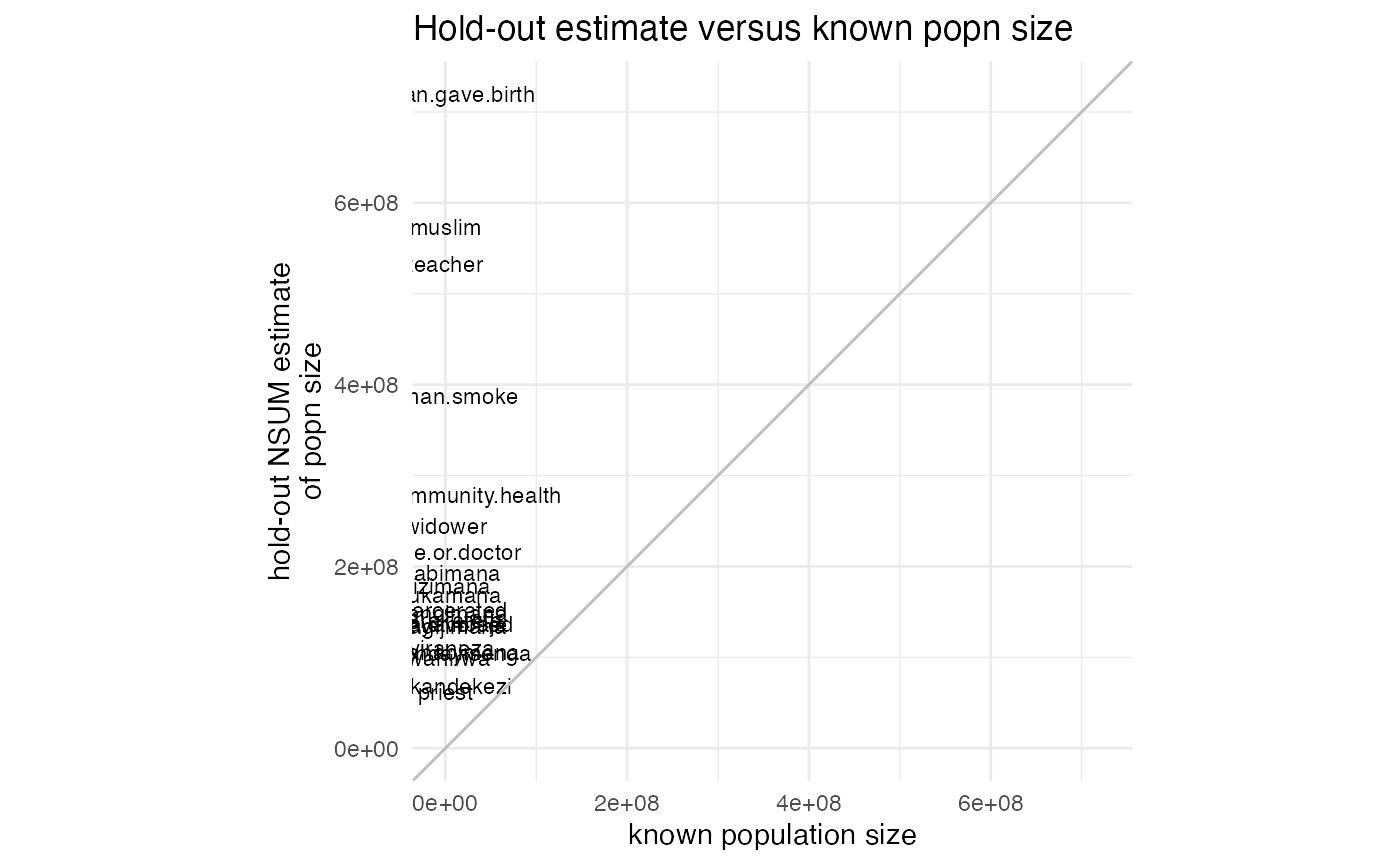
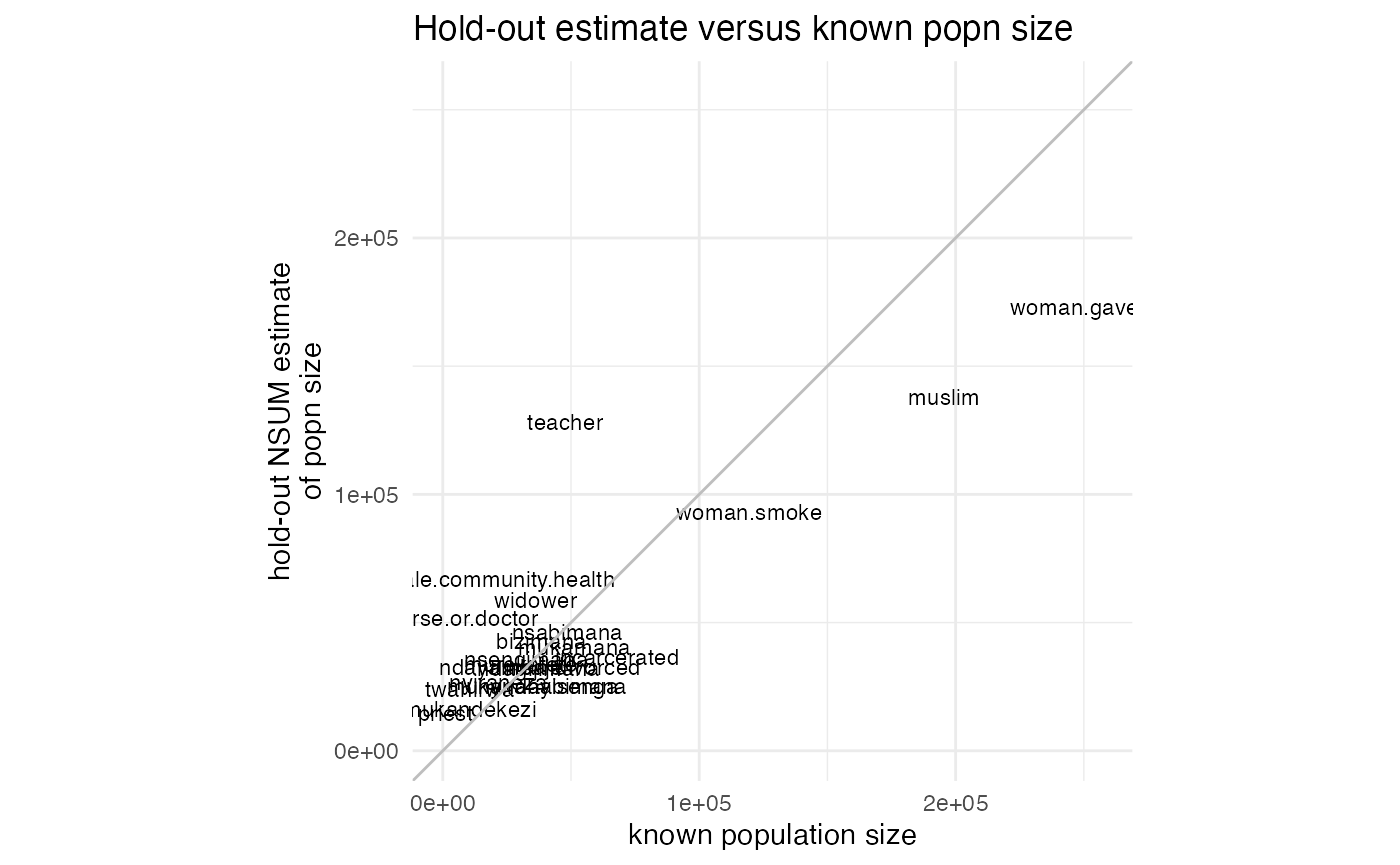
updated vignette

diff --git a/docs/articles/network_scaleup.html b/docs/articles/network_scaleup.html
@@ -501,12 +501,12 @@ populations. Future versions of the package may include tools to help address th
 <span class="co">## summarize the results</span>
 <span class="fu"><a href="https://rdrr.io/r/base/summary.html">summary</a></span><span class="op">(</span><span class="va">all.idu.estimates</span><span class="op">$</span><span class="va">estimate</span><span class="op">)</span></pre></div>
 <pre><code>##    Min. 1st Qu.  Median    Mean 3rd Qu.    Max. 
-##   24204   32736   34985   34937   37205   45006</code></pre>
+##   25346   32529   35057   34909   36577   44746</code></pre>
 <p>To produce 95% intervals using the percentile method you can do something like this</p>
 <div class="sourceCode" id="cb32"><pre class="downlit">
 <span class="fu"><a href="https://rdrr.io/r/stats/quantile.html">quantile</a></span><span class="op">(</span><span class="va">all.idu.estimates</span><span class="op">$</span><span class="va">estimate</span>, probs<span class="op">=</span><span class="fu"><a href="https://rdrr.io/r/base/c.html">c</a></span><span class="op">(</span><span class="fl">0.025</span>, <span class="fl">0.975</span><span class="op">)</span><span class="op">)</span></pre></div>
 <pre><code>##     2.5%    97.5% 
-## 27588.62 41182.12</code></pre>
+## 28182.84 42362.41</code></pre>
 </div>
 <div id="internal-consistency-checks" class="section level2">
 <h2 class="hasAnchor">
@@ -518,151 +518,107 @@ populations. Future versions of the package may include tools to help address th
                                       missing<span class="op">=</span><span class="st">"complete.obs"</span>,
                                       killworth.se<span class="op">=</span><span class="cn">TRUE</span>,
                                       total.popn.size<span class="op">=</span><span class="va">tot.pop.size</span>,
+                                      alter.popn.size<span class="op">=</span><span class="va">tot.pop.size</span>,
                                       kp.method<span class="op">=</span><span class="cn">TRUE</span>,
                                       return.plot<span class="op">=</span><span class="cn">TRUE</span><span class="op">)</span></pre></div>
-<pre><code>## NOTE: Ignoring any rows with missingness on any of the report variables.</code></pre>
-<pre><code>## Warning in sqrt((p.hat * (1 - p.hat))/toret$sum.d.hat): NaNs produced</code></pre>
-<pre><code>## Warning in sqrt((p.hat.raw * (1 - p.hat.raw))/sum(raw.d.hat.vals[touse.idx])):
-## NaNs produced</code></pre>
-<pre><code>## NOTE: Ignoring any rows with missingness on any of the report variables.</code></pre>
-<pre><code>## Warning in sqrt((p.hat * (1 - p.hat))/toret$sum.d.hat): NaNs produced
-
-## Warning in sqrt((p.hat * (1 - p.hat))/toret$sum.d.hat): NaNs produced</code></pre>
-<pre><code>## NOTE: Ignoring any rows with missingness on any of the report variables.</code></pre>
-<pre><code>## Warning in sqrt((p.hat * (1 - p.hat))/toret$sum.d.hat): NaNs produced
-
-## Warning in sqrt((p.hat * (1 - p.hat))/toret$sum.d.hat): NaNs produced</code></pre>
-<pre><code>## NOTE: Ignoring any rows with missingness on any of the report variables.</code></pre>
-<pre><code>## Warning in sqrt((p.hat * (1 - p.hat))/toret$sum.d.hat): NaNs produced
-
-## Warning in sqrt((p.hat * (1 - p.hat))/toret$sum.d.hat): NaNs produced</code></pre>
-<pre><code>## NOTE: Ignoring any rows with missingness on any of the report variables.</code></pre>
-<pre><code>## Warning in sqrt((p.hat * (1 - p.hat))/toret$sum.d.hat): NaNs produced
-
-## Warning in sqrt((p.hat * (1 - p.hat))/toret$sum.d.hat): NaNs produced</code></pre>
-<pre><code>## NOTE: Ignoring any rows with missingness on any of the report variables.</code></pre>
-<pre><code>## Warning in sqrt((p.hat * (1 - p.hat))/toret$sum.d.hat): NaNs produced
-
-## Warning in sqrt((p.hat * (1 - p.hat))/toret$sum.d.hat): NaNs produced</code></pre>
-<pre><code>## NOTE: Ignoring any rows with missingness on any of the report variables.</code></pre>
-<pre><code>## Warning in sqrt((p.hat * (1 - p.hat))/toret$sum.d.hat): NaNs produced
-
-## Warning in sqrt((p.hat * (1 - p.hat))/toret$sum.d.hat): NaNs produced</code></pre>
-<pre><code>## NOTE: Ignoring any rows with missingness on any of the report variables.</code></pre>
-<pre><code>## Warning in sqrt((p.hat * (1 - p.hat))/toret$sum.d.hat): NaNs produced
-
-## Warning in sqrt((p.hat * (1 - p.hat))/toret$sum.d.hat): NaNs produced</code></pre>
-<pre><code>## NOTE: Ignoring any rows with missingness on any of the report variables.</code></pre>
-<pre><code>## Warning in sqrt((p.hat * (1 - p.hat))/toret$sum.d.hat): NaNs produced
-
-## Warning in sqrt((p.hat * (1 - p.hat))/toret$sum.d.hat): NaNs produced</code></pre>
-<pre><code>## NOTE: Ignoring any rows with missingness on any of the report variables.</code></pre>
-<pre><code>## Warning in sqrt((p.hat * (1 - p.hat))/toret$sum.d.hat): NaNs produced
-
-## Warning in sqrt((p.hat * (1 - p.hat))/toret$sum.d.hat): NaNs produced</code></pre>
-<pre><code>## NOTE: Ignoring any rows with missingness on any of the report variables.</code></pre>
-<pre><code>## Warning in sqrt((p.hat * (1 - p.hat))/toret$sum.d.hat): NaNs produced
-
-## Warning in sqrt((p.hat * (1 - p.hat))/toret$sum.d.hat): NaNs produced</code></pre>
-<pre><code>## NOTE: Ignoring any rows with missingness on any of the report variables.</code></pre>
-<pre><code>## Warning in sqrt((p.hat * (1 - p.hat))/toret$sum.d.hat): NaNs produced
-
-## Warning in sqrt((p.hat * (1 - p.hat))/toret$sum.d.hat): NaNs produced</code></pre>
-<pre><code>## NOTE: Ignoring any rows with missingness on any of the report variables.</code></pre>
-<pre><code>## Warning in sqrt((p.hat * (1 - p.hat))/toret$sum.d.hat): NaNs produced
-
-## Warning in sqrt((p.hat * (1 - p.hat))/toret$sum.d.hat): NaNs produced</code></pre>
-<pre><code>## NOTE: Ignoring any rows with missingness on any of the report variables.</code></pre>
-<pre><code>## Warning in sqrt((p.hat * (1 - p.hat))/toret$sum.d.hat): NaNs produced
-
-## Warning in sqrt((p.hat * (1 - p.hat))/toret$sum.d.hat): NaNs produced</code></pre>
-<pre><code>## NOTE: Ignoring any rows with missingness on any of the report variables.</code></pre>
-<pre><code>## Warning in sqrt((p.hat * (1 - p.hat))/toret$sum.d.hat): NaNs produced
-
-## Warning in sqrt((p.hat * (1 - p.hat))/toret$sum.d.hat): NaNs produced</code></pre>
-<pre><code>## NOTE: Ignoring any rows with missingness on any of the report variables.</code></pre>
-<pre><code>## Warning in sqrt((p.hat * (1 - p.hat))/toret$sum.d.hat): NaNs produced
-
-## Warning in sqrt((p.hat * (1 - p.hat))/toret$sum.d.hat): NaNs produced</code></pre>
-<pre><code>## NOTE: Ignoring any rows with missingness on any of the report variables.</code></pre>
-<pre><code>## Warning in sqrt((p.hat * (1 - p.hat))/toret$sum.d.hat): NaNs produced
-
-## Warning in sqrt((p.hat * (1 - p.hat))/toret$sum.d.hat): NaNs produced</code></pre>
-<pre><code>## NOTE: Ignoring any rows with missingness on any of the report variables.</code></pre>
-<pre><code>## Warning in sqrt((p.hat * (1 - p.hat))/toret$sum.d.hat): NaNs produced
-
-## Warning in sqrt((p.hat * (1 - p.hat))/toret$sum.d.hat): NaNs produced</code></pre>
-<pre><code>## NOTE: Ignoring any rows with missingness on any of the report variables.</code></pre>
-<pre><code>## Warning in sqrt((p.hat * (1 - p.hat))/toret$sum.d.hat): NaNs produced
-
-## Warning in sqrt((p.hat * (1 - p.hat))/toret$sum.d.hat): NaNs produced</code></pre>
-<pre><code>## NOTE: Ignoring any rows with missingness on any of the report variables.</code></pre>
-<pre><code>## Warning in sqrt((p.hat * (1 - p.hat))/toret$sum.d.hat): NaNs produced
-
-## Warning in sqrt((p.hat * (1 - p.hat))/toret$sum.d.hat): NaNs produced</code></pre>
-<pre><code>## NOTE: Ignoring any rows with missingness on any of the report variables.</code></pre>
-<pre><code>## Warning in sqrt((p.hat * (1 - p.hat))/toret$sum.d.hat): NaNs produced
-
-## Warning in sqrt((p.hat * (1 - p.hat))/toret$sum.d.hat): NaNs produced</code></pre>
-<pre><code>## NOTE: Ignoring any rows with missingness on any of the report variables.</code></pre>
-<pre><code>## Warning in sqrt((p.hat * (1 - p.hat))/toret$sum.d.hat): NaNs produced
-
-## Warning in sqrt((p.hat * (1 - p.hat))/toret$sum.d.hat): NaNs produced</code></pre>
+<pre><code>## NOTE: Ignoring any rows with missingness on any of the report variables.
+## 
+## NOTE: Ignoring any rows with missingness on any of the report variables.
+## 
+## NOTE: Ignoring any rows with missingness on any of the report variables.
+## 
+## NOTE: Ignoring any rows with missingness on any of the report variables.
+## 
+## NOTE: Ignoring any rows with missingness on any of the report variables.
+## 
+## NOTE: Ignoring any rows with missingness on any of the report variables.
+## 
+## NOTE: Ignoring any rows with missingness on any of the report variables.
+## 
+## NOTE: Ignoring any rows with missingness on any of the report variables.
+## 
+## NOTE: Ignoring any rows with missingness on any of the report variables.
+## 
+## NOTE: Ignoring any rows with missingness on any of the report variables.
+## 
+## NOTE: Ignoring any rows with missingness on any of the report variables.
+## 
+## NOTE: Ignoring any rows with missingness on any of the report variables.
+## 
+## NOTE: Ignoring any rows with missingness on any of the report variables.
+## 
+## NOTE: Ignoring any rows with missingness on any of the report variables.
+## 
+## NOTE: Ignoring any rows with missingness on any of the report variables.
+## 
+## NOTE: Ignoring any rows with missingness on any of the report variables.
+## 
+## NOTE: Ignoring any rows with missingness on any of the report variables.
+## 
+## NOTE: Ignoring any rows with missingness on any of the report variables.
+## 
+## NOTE: Ignoring any rows with missingness on any of the report variables.
+## 
+## NOTE: Ignoring any rows with missingness on any of the report variables.
+## 
+## NOTE: Ignoring any rows with missingness on any of the report variables.
+## 
+## NOTE: Ignoring any rows with missingness on any of the report variables.</code></pre>
 <p>Now <code>ic.result</code> is a list that has a summary of the results in the entry <code>results</code></p>
-<div class="sourceCode" id="cb80"><pre class="downlit">
+<div class="sourceCode" id="cb36"><pre class="downlit">
 <span class="va">ic.result</span><span class="op">$</span><span class="va">results</span></pre></div>
 <pre><code>##                     name nsum.holdout.est known.size d.hat.sum killworth.se
-## 1                widower        244007444      36147  57.49825          NaN
-## 2        nurse.or.doctor        215600220       7807  56.49345          NaN
-## 3  male.community.health        278286292      22000  56.45265          NaN
-## 4                teacher        533095472      47745  54.86822          NaN
-## 5            woman.smoke        387010426     119438  59.92087          NaN
-## 6                 priest         61640323       1004  57.91663          NaN
-## 7       woman.gave.birth        719886921     256164  62.99600          NaN
-## 8                 muslim        573292400     195449  61.57659          NaN
-## 9           incarcerated        152201996      68000  60.18318          NaN
-## 10          man.divorced        136155139      50698  59.49096          NaN
-## 11            nsengimana        148368880      32528  58.43543          NaN
-## 12            murekatete        141037969      30531  58.42398          NaN
-## 13              twahirwa         99426394      10420  57.93230          NaN
-## 14           mukandekezi         68092036      10520  58.30344          NaN
-## 15             nsabimana        192850241      48560  58.69840          NaN
-## 16              mukamana        168600281      51449  59.13395          NaN
-## 17            ndayambaje        136497840      22724  58.09616          NaN
-## 18             nyiraneza        110713185      21705  58.34897          NaN
-## 19              bizimana        178508708      38497  58.37250          NaN
-## 20         nyirahabimana        105618615      42727  59.45922          NaN
-## 21           ndagijimana        134080575      37375  58.84521          NaN
-## 22        mukandayisenga        104942854      35055  59.07977          NaN
-##    killworth.se.wgtdenom       err    abserr        sqerr    relerr
-## 1                    NaN 243971297 243971297 5.952199e+16  6749.420
-## 2                    NaN 215592413 215592413 4.648009e+16 27615.270
-## 3                    NaN 278264292 278264292 7.743102e+16 12648.377
-## 4                    NaN 533047727 533047727 2.841399e+17 11164.472
-## 5                    NaN 386890988 386890988 1.496846e+17  3239.262
-## 6                    NaN  61639319  61639319 3.799406e+15 61393.744
-## 7                    NaN 719630757 719630757 5.178684e+17  2809.258
-## 8                    NaN 573096951 573096951 3.284401e+17  2932.207
-## 9                    NaN 152133996 152133996 2.314475e+16  2237.265
-## 10                   NaN 136104441 136104441 1.852442e+16  2684.612
-## 11                   NaN 148336352 148336352 2.200367e+16  4560.267
-## 12                   NaN 141007438 141007438 1.988310e+16  4618.500
-## 13                   NaN  99415974  99415974 9.883536e+15  9540.880
-## 14                   NaN  68081516  68081516 4.635093e+15  6471.627
-## 15                   NaN 192801681 192801681 3.717249e+16  3970.381
-## 16                   NaN 168548832 168548832 2.840871e+16  3276.037
-## 17                   NaN 136475116 136475116 1.862546e+16  6005.770
-## 18                   NaN 110691480 110691480 1.225260e+16  5099.815
-## 19                   NaN 178470211 178470211 3.185162e+16  4635.951
-## 20                   NaN 105575888 105575888 1.114627e+16  2470.941
-## 21                   NaN 134043200 134043200 1.796758e+16  3586.440
-## 22                   NaN 104907799 104907799 1.100565e+16  2992.663</code></pre>
+## 1                widower         58708.19      36147  238978.6    1562.7564
+## 2        nurse.or.doctor         51873.41       7807  234802.4    1482.4902
+## 3  male.community.health         66955.68      22000  234632.8    1683.6063
+## 4                teacher        128262.77      47745  228047.5    2356.3211
+## 5            woman.smoke         93114.71     119438  249047.7    1924.5823
+## 6                 priest         14830.66       1004  240717.5     784.3396
+## 7       woman.gave.birth        173204.79     256164  261828.8    2549.6303
+## 8                 muslim        137934.15     195449  255929.3    2305.5174
+## 9           incarcerated         36619.80      68000  250137.9    1207.7348
+## 10          man.divorced         32758.93      50698  247260.8    1149.1445
+## 11            nsengimana         35697.55      32528  242873.8    1210.1866
+## 12            murekatete         33933.74      30531  242826.2    1180.1303
+## 13              twahirwa         23921.99      10420  240782.6     995.5567
+## 14           mukandekezi         16382.94      10520  242325.2     821.5626
+## 15             nsabimana         46399.77      48560  243966.7    1375.8868
+## 16              mukamana         40565.23      51449  245777.0    1282.1053
+## 17            ndayambaje         32841.38      22724  241463.7    1164.3150
+## 18             nyiraneza         26637.59      21705  242514.4    1046.6453
+## 19              bizimana         42949.20      38497  242612.2    1327.6590
+## 20         nyirahabimana         25411.84      42727  247128.9    1012.7535
+## 21           ndagijimana         32259.79      37375  244576.9    1146.6248
+## 22        mukandayisenga         25249.25      35055  245551.8    1012.7533
+##    killworth.se.wgtdenom        err    abserr      sqerr      relerr
+## 1              1562.7564  22561.191 22561.191  509007341  0.62415113
+## 2              1482.4902  44066.413 44066.413 1941848743  5.64447456
+## 3              1683.6063  44955.682 44955.682 2021013338  2.04344009
+## 4              2356.3211  80517.771 80517.771 6483111367  1.68641262
+## 5              1924.5823 -26323.291 26323.291  692915672  0.22039294
+## 6               784.3396  13826.662 13826.662  191176573 13.77157538
+## 7              2549.6303 -82959.207 82959.207 6882229975  0.32385193
+## 8              2305.5174 -57514.848 57514.848 3307957792  0.29427036
+## 9              1207.7348 -31380.200 31380.200  984716944  0.46147353
+## 10             1149.1445 -17939.074 17939.074  321810359  0.35384184
+## 11             1210.1866   3169.553  3169.553   10046064  0.09744075
+## 12             1180.1303   3402.735  3402.735   11578609  0.11145182
+## 13              995.5567  13501.990 13501.990  182303747  1.29577644
+## 14              821.5626   5862.944  5862.944   34374109  0.55731404
+## 15             1375.8868  -2160.232  2160.232    4666603  0.04448583
+## 16             1282.1053 -10883.772 10883.772  118456503  0.21154488
+## 17             1164.3150  10117.380 10117.380  102361383  0.44522884
+## 18             1046.6453   4932.592  4932.592   24330468  0.22725604
+## 19             1327.6590   4452.195  4452.195   19822041  0.11565044
+## 20             1012.7535 -17315.161 17315.161  299814807  0.40525104
+## 21             1146.6248  -5115.214  5115.214   26165412  0.13686191
+## 22             1012.7533  -9805.749  9805.749   96152722  0.27972470</code></pre>
 <p>Since we passed the argument <code>return.plot=TRUE</code> to the function, we also get a plot:</p>
-<div class="sourceCode" id="cb82"><pre class="downlit">
+<div class="sourceCode" id="cb38"><pre class="downlit">
 <span class="fu"><a href="https://rdrr.io/r/base/print.html">print</a></span><span class="op">(</span><span class="va">ic.result</span><span class="op">$</span><span class="va">plot</span><span class="op">)</span></pre></div>
 <p><img src="network_scaleup_files/figure-html/unnamed-chunk-20-1.png" width="700"></p>
 <p>This plot is a <code>ggplot2</code> object, so we can customize it if we want. As a very simple example, we can change the title:</p>
-<div class="sourceCode" id="cb83"><pre class="downlit">
+<div class="sourceCode" id="cb39"><pre class="downlit">
 <span class="fu"><a href="https://rdrr.io/r/base/print.html">print</a></span><span class="op">(</span><span class="va">ic.result</span><span class="op">$</span><span class="va">plot</span> <span class="op">+</span> <span class="fu"><a href="https://ggplot2.tidyverse.org/reference/labs.html">ggtitle</a></span><span class="op">(</span><span class="st">"internal consistency checks"</span><span class="op">)</span><span class="op">)</span></pre></div>
 <p><img src="network_scaleup_files/figure-html/unnamed-chunk-21-1.png" width="700"></p>
 <p>The <a href="http://ggplot2.org/">ggplot2 website</a> has more information on modifying ggplot2 objects.</p>
